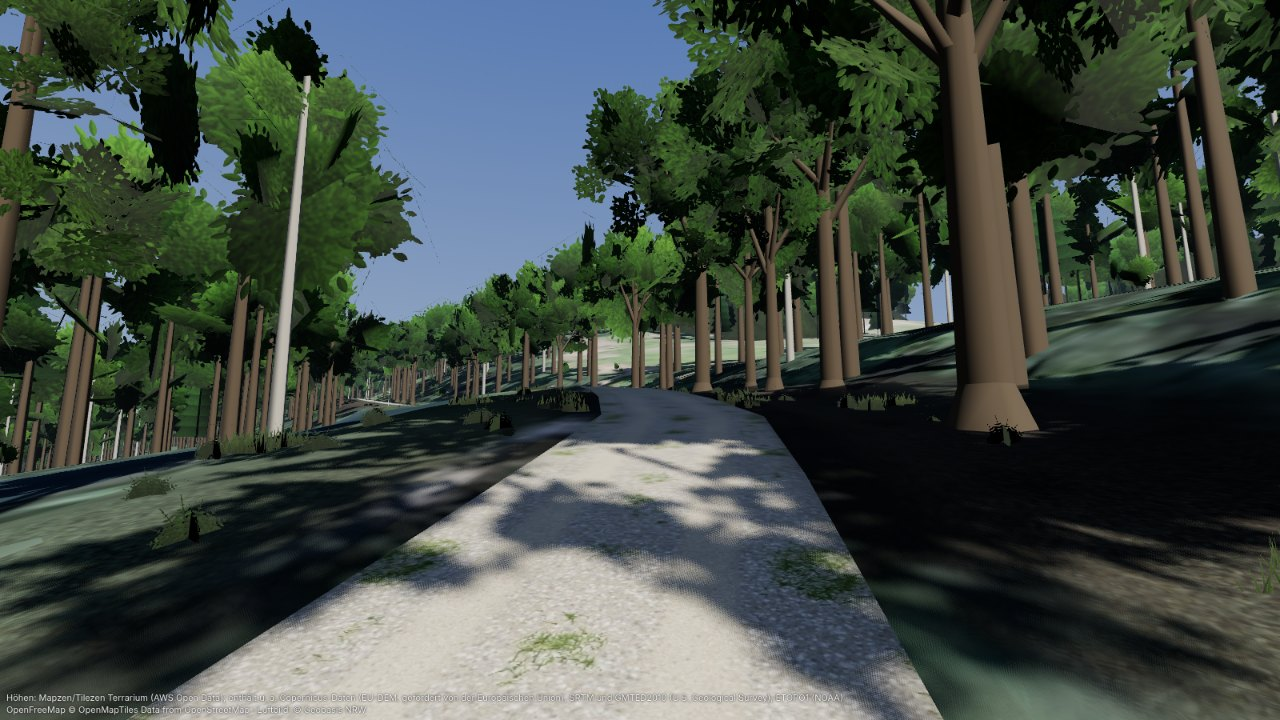
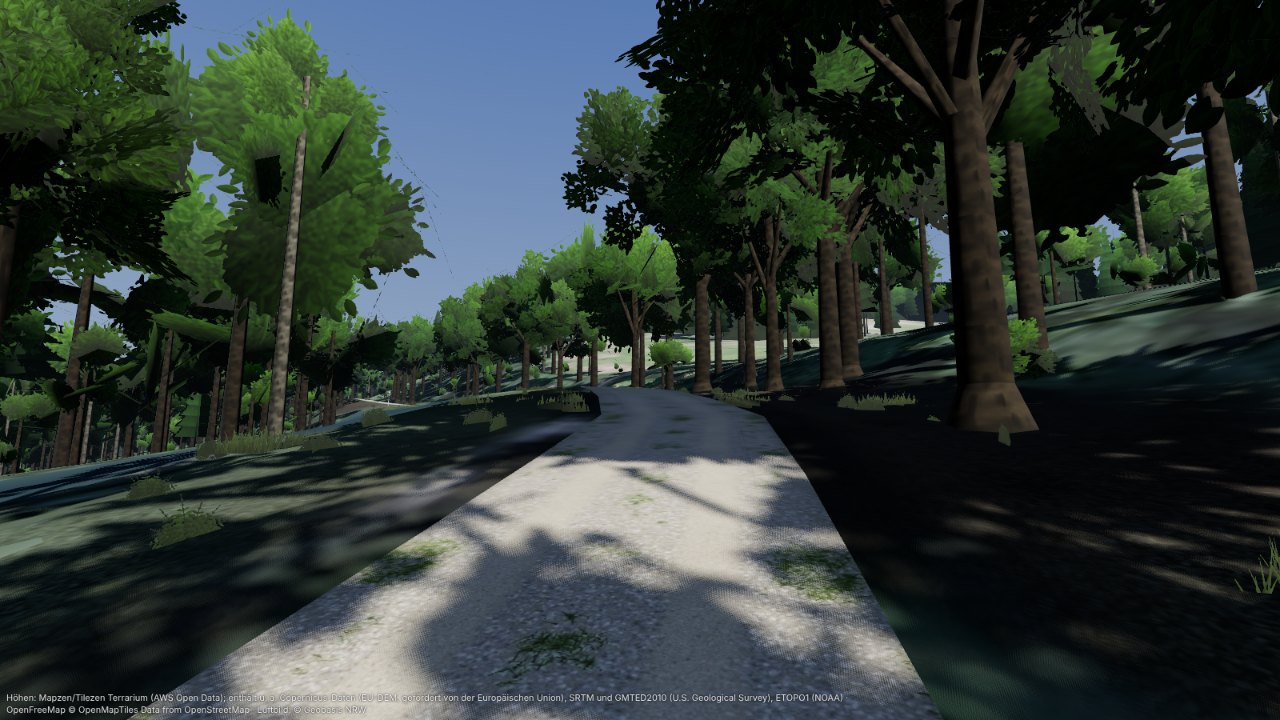
Indoor-Vegetation: Randbaeume doppelt, kompakte UV nur fuer Kacheln, Bildpaare und Doku (zweite Runde)
- Waldrand in Stufe 0 mit zwei Kreuzbild-Baeumen je Randzelle (Rampe des
  Kronendachs am Hang verdeckt).
- GlbScene(compactUv): normierte UNSIGNED_SHORT-UV nur fuer Kacheln
  (TileOutput.toGlb); die eingecheckten Modelle bleiben unveraendert
  (RiderModelTest).
- Bildpaare neu (vorher = Stand nach dem Merge mit der Laser-Stufe), neu
  balkantrasse-laser-lenker.
- world.md: zweite Runde (Ursachen, Loesungen, Messwerte, Laser-Heap),
  Overdraw und Stellschrauben fuer das Geraet.

Claude-Session: https://claude.ai/code/session_01E3qQ7ihnggcD4GmyCM1Ydn

diff --git a/core/src/main/kotlin/de/trailscape/core/indoor/world/Glb.kt b/core/src/main/kotlin/de/trailscape/core/indoor/world/Glb.kt
@@ -129,7 +129,13 @@ private class ContentKey(val bytes: ByteArray) {
     override fun equals(other: Any?): Boolean = other is ContentKey && other.hash == hash && other.bytes.contentEquals(bytes)
 }
 
-internal class GlbScene {
+internal class GlbScene(
+    /**
+     * `TEXCOORD_0` als normierte `UNSIGNED_SHORT`, wo alle UV in [0, 1] liegen (Kacheln). Die
+     * eingecheckten Modelle (Fahrer, Geist) bleiben bei float, damit sie sich nicht aendern.
+     */
+    private val compactUv: Boolean = false,
+) {
     private class ImageEntry(val bufferView: Int, val mime: String, val width: Int, val height: Int)
     private class NodeEntry(
         val name: String,
@@ -291,7 +297,7 @@ internal class GlbScene {
         // "TEXCOORD_n: float | unsigned byte normalized | unsigned short normalized"): 4 statt 8 Byte je
         // Eckpunkt. gltfio uebernimmt das Flag (AssetLoader: vbb.normalized(semantic, accessor->normalized);
         // GltfEnums getElementType kennt r_16u). Kachelnde UV (> 1) bleiben float.
-        var unit = true
+        var unit = compactUv
         for (i in 0 until n * 2) if (uv[i] < 0f || uv[i] > 1f) { unit = false; break }
         val uvAcc = if (unit) {
             val q = ShortArray(n * 2) { Math.round(uv[it] * 65535f).toShort() }

diff --git a/core/src/main/kotlin/de/trailscape/core/indoor/world/TreesLayer.kt b/core/src/main/kotlin/de/trailscape/core/indoor/world/TreesLayer.kt
@@ -232,7 +232,7 @@ internal class TreesLayer : TileLayer {
             val topShare = if (coarse) 0.0 else 0.3
             val top = Noise.hash01(wi, wj, SEED_TOP)
             val per = when {
-                edge -> 1
+                edge -> if (coarse) 1 else 2 // nah zwei Randbaeume je Zelle: die Rampe des Kronendachs bleibt am Hang verdeckt
                 top < topShare -> 1
                 else -> 0
             }
@@ -246,8 +246,8 @@ internal class TreesLayer : TileLayer {
                 val ol = kotlin.math.hypot(oe, on)
                 if (edge) {
                     // nach aussen geschoben: deckt die Rampe des Kronendachs
-                    e += oe / ol * cell * 0.35
-                    n += on / ol * cell * 0.35
+                    e += oe / ol * cell * 0.45
+                    n += on / ol * cell * 0.45
                 }
                 val conifer = Noise.hash01(wi, wj, SEED_BB + 47 + k) < ctx.land.coniferShare(e, n)
                 val ch = canopyHeight(ctx, e, n) * (0.85 + 0.3 * r3)

diff --git a/core/src/main/kotlin/de/trailscape/core/indoor/world/WorldInternals.kt b/core/src/main/kotlin/de/trailscape/core/indoor/world/WorldInternals.kt
@@ -532,7 +532,7 @@ internal class TileOutput(val spec: TileSpec) {
 
     /** Schreibt die Kachel als GLB nach den Regeln aus docs/indoor.md 7.3. */
     fun toGlb(): GlbScene {
-        val scene = GlbScene()
+        val scene = GlbScene(compactUv = true)
         val materials = HashMap<String, Int>()
         fun materialIndex(m: TileMaterial): Int = materials.getOrPut(m.name) {
             val tex = m.texture?.let { scene.addTexture(it.bytes, it.mime, m.repeat) }

diff --git a/docs/indoor/world.md b/docs/indoor/world.md
@@ -174,29 +174,25 @@ Bildpaare (gleicher Blickpunkt, Betrachter, 1600 × 900 → JPEG):
 `altenberg-park-lenker`, `altenberg-waldrand-fichten`,
 `altenberg-offen-einzelbaeume`, `altenberg-laubwald-lenker`,
 `altenberg-hang-drohne`, `tharandt-forstweg`, `schauinsland-bergwald`,
-`schauinsland-tal-fernsicht`. Vorher = Stand `main` (6cd9387), beide mit
-demselben Betrachter gerendert.
+`schauinsland-tal-fernsicht`, seit der zweiten Runde auch `balkantrasse-laser-lenker`. Die Dateien zeigen den Stand der zweiten Runde
+(vorher = Stand nach dem Merge mit der Laser-Stufe, siehe unten); beide mit demselben
+Betrachter gerendert.
 
 ### Wie es gebaut ist
 
 - **Blattkarten.** Kronen sind viele kleine, verdrehte Vierecke mit einem Motiv
-  aus dem Atlas und Alpha-Ausschnitt (`mat_tree_leaves`: `MASK`, Schwelle 0,5,
-  doppelseitig — wie im Vertrag, jetzt mit echten Ausschnitten). Stamm und
+  aus dem Atlas und Alpha-Ausschnitt (`x_mat_tree_cards`: `MASK`, Schwelle 0,5,
+  **einseitig**, jede Karte mit beiden Wicklungen — siehe „Zweite Runde“). Stamm und
   (nah) die Hauptäste zu den Teilkronen sind Geometrie. Laubbaum nah: 104
   Zweigkarten auf 5 Teilkronen + 16 innere Laubmasse-Karten (≈ 300 Dreiecke,
   vorher ≈ 970 für den Kugelkörper).
 - **Licht ohne eigenen Shader.** Eckpunkt-Normalen sind zu 70–90 % die Richtung
-  vom Kronenmittelpunkt aus („gebogene Normalen"; senkrecht auf 45 % gestaucht,
-  weil die Kamera fast immer unter den Kronen ist — steil nach oben zeigende
-  Normalen ergaben von unten gesehene, schwarze Kronenoberseiten): Die
+  vom Kronenmittelpunkt aus („gebogene Normalen“, unten etwas abgeflacht): Die
   Krone schattiert wie ein weicher Körper, Karte für Karte flimmert nichts.
   Verschattung innen/unten steckt in den Vertexfarben (Bäume empfangen keine
-  Schatten). **Vorderseite = Richtung der gebogenen Normalen:** Filament
-  (`doubleSided`) und three.js drehen auf der Rückseite die Normale um; lag
-  eine Karte „falsch herum", zeigte die umgedrehte Normale zur Sonne, und
-  innere Karten erschienen als blasse Flächen (im Betrachter gesehen, per
-  Motiv-Einfärbung gefunden). Mit der Regel sieht man von unten/hinten die
-  dunkle Seite.
+  Schatten). Weil beide Wicklungen dieselben Eckpunkte und damit dieselbe
+  Normale haben, ist die Beleuchtung von beiden Seiten gleich — unabhängig von
+  `gl_FrontFacing`.
 - **Arten:** breiter Laubbaum, schlanker Laubbaum (Pappel/Birke, halb mit
   hellem Stamm), Feld-/Obstbaum, **Fichte** (Astquirle als „Schürzen": je Quirl
   ein Kranz schräger Trapezkarten mit hängendem Nadelrand, Quirle überlappen),
@@ -210,8 +206,9 @@ demselben Betrachter gerendert.
   Laubmasse-Karten; Fichte fern als Sternbild (drei senkrechte Karten mit dem
   ganzen Baum). Vergabe vom Weg nach außen (nächste Bäume zuerst voll).
 - **Waldkörper mit Kronen-Silhouette:** Kronendach mit eigenem, kachelndem
-  Kronenmosaik (`x_mat_tree_canopy`, JPEG 256², 30 m je Kachelung) statt
-  Sprenkeltextur; am Waldrand je Randzelle ein Kreuzbild eines ganzen Baums
+  Kronenmosaik (`mat_tree_leaves`, MASK, doppelseitig wie im Vertrag, deckende
+  JPEG 256², 30 m je Kachelung) statt Sprenkeltextur; am Waldrand je Randzelle
+  (Stufe 0: zwei) ein Kreuzbild eines ganzen Baums
   (Vorderseite nach draußen, verdeckt die Rampe des Kronendachs), in Stufe 0
   ragen aus 30 % der Innenzellen Kronenspitzen. Stufe 1 bekommt nur die
   Randbäume, aus einem kleinen Fern-Atlas (256²) statt des großen.
@@ -250,6 +247,8 @@ demselben Betrachter gerendert.
   den Stufen 1–3 mindestens 80 % der Deckung (Gras/Farn 55 %); gemessen
   0,97–1,05.
 - **Koplanar:** Karten sind zufällig verdreht, Büschel senkrecht.
+  Die beiden Wicklungen einer Karte sind zwar koplanar, aber nie gleichzeitig
+  sichtbar (einseitiges Material, Rückseiten verworfen) — kein Z-Kampf.
   `indoor-dev overlaps`: Altenberg kurz 638 → 638, Tharandt km 2–6 234 → 234,
   kein Paar mit Vegetation; `QualityTest` grün.
 
@@ -271,8 +270,7 @@ der Plattenbedarf nur mäßig steigt (+6 bis +10 %), sind die Einzelbäume auf
 13 000 Dreiecke je Kachel gedeckelt (vorher nahmen sie bis ≈ 25 000), der
 Bodenbewuchs auf 1 600, und die Atlanten sind Grau+Alpha. Mehr Dichte ginge mit
 normierten `UNSIGNED_SHORT`-Texturkoordinaten (Kern-glTF, −4 Byte je Eckpunkt)
-in `Glb.kt` — nicht gemacht, weil auf dem Gerät ungeprüft und außerhalb dieses
-Auftrags. Texturen +23 MB: Atlas 1,4 MB GPU je Kachel der Stufe 0, Kronendach
+in `Glb.kt` — in der zweiten Runde gemacht (siehe dort). Texturen +23 MB: Atlas 1,4 MB GPU je Kachel der Stufe 0, Kronendach
 0,35 MB je Kachel.
 
 ### Unabhängiges Gutachten (Unter-Agent, opus) und was daraus wurde
@@ -290,36 +288,88 @@ an Zwift `altenberg-waldrand-fichten` und `altenberg-laubwald-lenker`
 | grell orange Kiefernstämme, kalkweiße Birken | **behoben** (gedämpft) |
 | Fichten-„Segel" von unten | **teilweise:** 12 kleinere Quirle statt 10, am Waldweg höherer kahler Stamm |
 | eigene Mip-Stufen mit erhaltener Deckung | **nicht möglich** (PNG in GLB hat eine Stufe, gltfio erzeugt sie); stattdessen dicht gezeichnete Motive, Test |
-| Kronen zu licht / Stangenwald, wenig Mittelschicht | **offen:** Budget (Deckel 13 000 je Kachel); mehr Dichte kostet Platte |
+| Kronen zu licht / Stangenwald, wenig Mittelschicht | **verbessert** in der zweiten Runde (Deckel, `UNSIGNED_SHORT`-UV, Unterwuchs) |
 | Karte schneidet die Nahebene am Wegrand | **offen** (selten; Kronen am Weg kürzen) |
+
+### Zweite Runde (Rückmeldung der Integration)
+
+Nach dem Zusammenführen mit der Laser-Stufe (`main` 5406928). Vorher = dieser
+Stand nach dem Merge, nachher = jetzt; dieselben Blickpunkte, die Bildpaare in
+`docs/indoor/bilder/foliage/` sind ersetzt. Neu ist das Paar
+`balkantrasse-laser-lenker` (`--laser`, Bäume mit gemessener Lage und Höhe aus
+dem nDOM).
+
+| Rückmeldung | Ursache | Lösung |
+|---|---|---|
+| schwarze Kartenflächen und dunkle „Fahnen“ an Laubkronen in offener Landschaft, Fichten am Hang fast schwarz | Doppelseitiges Material: Filament (und three.js) drehen auf der Rückseite die Normale um; gebogene Normalen zeigen dann vom Licht weg. Fast kantenparallele, von hinten gesehene Karten werden zu dunklen Strichen | Karten in **`x_mat_tree_cards` einseitig**, jede mit **beiden Wicklungen auf denselben Eckpunkten** (kostet nur 6 Indizes je Karte); je Blickrichtung wird genau eine gezeichnet, beide mit derselben Normale. Fichten-Schürzen haben für die Unterseite eigene, dunklere Eckpunkte mit Normale nach außen-unten. Gras und Kreuzbilder bleiben einseitig mit Vorderseite zur Strecke bzw. nach draußen. `mat_tree_leaves` (MASK, doppelseitig, wie im Vertrag) trägt jetzt das deckende Kronendach |
+| Stangenwald, Kronen licht | Deckel 13 000 Dreiecke je Kachel, Kronen setzen bei 30 % der Höhe an | `Glb.kt`: **`TEXCOORD_0` als normierte `UNSIGNED_SHORT`**, wenn alle UV eines Primitivs in [0, 1] liegen (Kern-glTF 2.0; gltfio übernimmt das Flag: `AssetLoader.cpp` `vbb.normalized(semantic, accessor->normalized)`, `GltfEnums.h` `getElementType` kennt `r_16u`; three.js ebenso, im Betrachter geprüft). Spart 4 Byte je Eckpunkt in **allen** Kacheln (Gelände, Fahrbahn, Gebäude …). Damit Deckel 30 000 (beide Wicklungen gezählt). Laubbäume im Bestand setzen die Krone bei 20–26 % an (breiter, Kronendach schließt), mehr Unterholz (Büsche 24 % am Weg, 14 % dahinter) und junge Bäume (12 %) verdecken die Stämme im Mittelgrund |
+| Stämme hell und glatt wie Rohre | nur Vertexfarbe | **Rindentextur** (prozedural, JPEG 64 × 128, kachelnd, v 0,5 je Meter) auf `mat_tree_trunk`, Stammfuß auf 55 % abgedunkelt |
+| Fichten-„Segel“ von unten | Unterseite = beleuchtete Oberseite | eigene dunkle Unterseite (s. o.), am Waldweg höherer kahler Stamm |
+| Kronendach-Rampen am Steilhang | ein Randbaum je 8-m-Zelle reichte nicht | zwei Randbäume je Randzelle in Stufe 0, weiter nach außen gesetzt (am Schauinsland-Hang rechts weiterhin teils zu sehen) |
+
+Die Laser-Bäume (`laserTreeSpec`) kennen jetzt Kiefer und Busch und übernehmen
+kahlen Stammanteil und Farbton; `specFor` bekommt den Abstand zur Strecke.
+
+**Messwerte** (`-Xmx256m`, Cache; vorher = Stand nach dem Merge):
+
+| Welt | Dreiecke gleichzeitig | Texturen | Platte | Heap nach GC (max) |
+|---|---|---|---|---|
+| Schauinsland 15,7 km | 403 301 → 560 785 | 183,7 → 184,1 MB | 12,5 → 13,2 MB/km (+6 %) | 122 → 118 MB |
+| Altenberg kurz | 372 340 → 468 670 | 177,3 → 177,7 MB | 17,3 → 17,8 MB/km (+3 %) | 125 → 135 MB |
+| Tharandt km 2–6 | 369 626 → 466 472 | 160,5 → 160,9 MB | 13,2 → 13,8 MB/km (+5 %) | 110 → 125 MB |
+| Balkantrasse 7,7 km, `--laser` (mit `-Xmx2g`) | 375 483 → 453 111 | 178,5 → 178,8 MB | 18,6 → 18,6 MB/km | – |
+
+Gegenüber `main` vor der Vegetation (6cd9387): Schauinsland 11,8 → 13,2 MB/km.
+**Laser-Stufe und Heap:** Die Balkantrasse mit `--laser` bricht bei
+`-Xmx256m` schon im Stand nach dem Merge (ohne diese Runde) mit
+`OutOfMemoryError` ab (vor den Kacheln, beim Laden; mit 2 GB Heap nach GC bis
+343 MB). Das liegt in der Laser-Stufe, nicht in der Vegetation.
+
+### Bildrate: Overdraw und Stellschrauben
+
+Alpha-getestete Karten überlagern sich (Overdraw), und `discard` hebt Early-Z
+für diese Fragmente auf; die Rückseiten-Hälfte jeder Karte wird dagegen schon
+beim Rastern verworfen. Vorkehrungen: Karten nah klein und zahlreich, fern
+wenige große mit dichtem Motiv (Laubmasse ≥ 80 % Deckung); keine großen, fast
+leeren Karten (Fichte fern als Sternbild aus drei Karten, Laubbäume fern ohne
+Sternbild); Kronendach der Waldkörper deckend (kein Alpha-Verwurf); Gras nur
+bis 4,3 m neben der Fahrbahn.
+
+Fällt auf dem Gerät die Bildrate, in dieser Reihenfolge drehen:
+
+1. **`TreesLayer.DETAIL_M`** (volle Karten bis 16 m) auf 10 m und
+   **`SINGLE_TREE_MAX`** (30 000) auf 20 000 — weniger Karten nah, wo der
+   Overdraw entsteht.
+2. **`UNDERGROWTH_MAX`** (1 600) auf 800 oder 0.
+3. In der Darstellung: `RenderSettings.resolutionScale` senken bzw.
+   dynamische Auflösung; MSAA abschalten verliert Alpha-to-Coverage (Kanten
+   flimmern dann stärker).
 
 ### Offen
 
-- **Kronendichte im dichten Wald:** Je 256-m-Kachel reicht der Deckel für rund
-  40 volle Kronen; dahinter mittlere und ferne Stufe. Wirkt licht
-  („Stangenwald"). Hebel: Deckel anheben (Platte +), `UNSIGNED_SHORT`-UV.
+- **Kronendichte im dichten Wald:** besser, aber über dem Weg schließt das
+  Kronendach nicht überall; im Mittelgrund bleiben Stämme sichtbar.
 - **Waldboden dunkel:** Luftbild unter Kronen (Gelände/Darstellung, nicht hier).
-- **Kronendach der Waldkörper** am Steilhang aus der Nähe weiterhin als Rampe
-  mit Kanten zu sehen, wo keine Randbäume stehen (Schauinsland rechts oben).
-- **Von hinten gesehene Karten** sind grundsätzlich dunkler (Normalenumkehr
-  doppelseitiger Materialien) — die Regeln oben machen es selten, nicht unmöglich.
+- **Kronendach-Rampen am Steilhang:** am Schauinsland rechts weiterhin teils als
+  helle, kantige Flächen zu sehen.
+- **Karte schneidet die Nahebene** am Wegrand (selten).
 
 ### Nur im Betrachter geprüft (Gerät steht aus)
 
 - Alles Sichtbare: three.js mit nachgebildetem MASK (Alpha-to-Coverage,
   Filaments Schärfung), SwiftShader, `HemisphereLight` statt SH-Umgebungslicht.
-  Wie hell die Rückseiten und Kronenunterseiten unter Filaments `IndirectLight`
-  wirken, ist offen.
-- Bildrate: deutlich mehr Alpha-getestete Fläche (Overdraw, `discard` schaltet
-  Early-Z ab) bei weniger Dreiecken — auf dem Handy messen (MEDIUM, 4× MSAA).
-- PNG Grau+Alpha (Farbtyp 4) in gltfio: nach den Quellen (stb_image auf RGBA
-  erweitert) unkritisch, auf dem Gerät nicht gesehen.
+  Wie hell Schattenseiten und Kronenunterseiten unter Filaments
+  `IndirectLight` wirken, ist offen.
+- Bildrate (Overdraw, s. o.) — auf dem Handy messen (MEDIUM, 4× MSAA).
+- PNG Grau+Alpha (Farbtyp 4) und normierte `UNSIGNED_SHORT`-UV in gltfio: nach
+  den Quellen unterstützt, auf dem Gerät nicht gesehen.
 
 ## Abweichungen vom Vertrag
 
 1. ~~Laub `alphaMode = MASK` ohne Ausschnitte.~~ Seit „Vegetation" (oben)
-   Blattkarten mit echtem Alpha-Ausschnitt, also wie im Vertrag. Die
-   Waldkörper tragen ein eigenes, deckendes Material `x_mat_tree_canopy`.
+   Blattkarten mit echtem Alpha-Ausschnitt in `x_mat_tree_cards` (MASK,
+   **einseitig**, beide Wicklungen im Netz); `mat_tree_leaves` (MASK,
+   doppelseitig, wie im Vertrag) trägt das deckende Kronendach der Waldkörper.
 2. **Wasser nur als Flächen.** Schmale Wasserläufe (Linien `waterway`)
    bekommen keinen eigenen Spiegel; sie erscheinen nur im Luftbild bzw. in der
    erzeugten Bodentextur. Wasser liegt als Gitterzellen (4 m in Stufe 0) knapp
